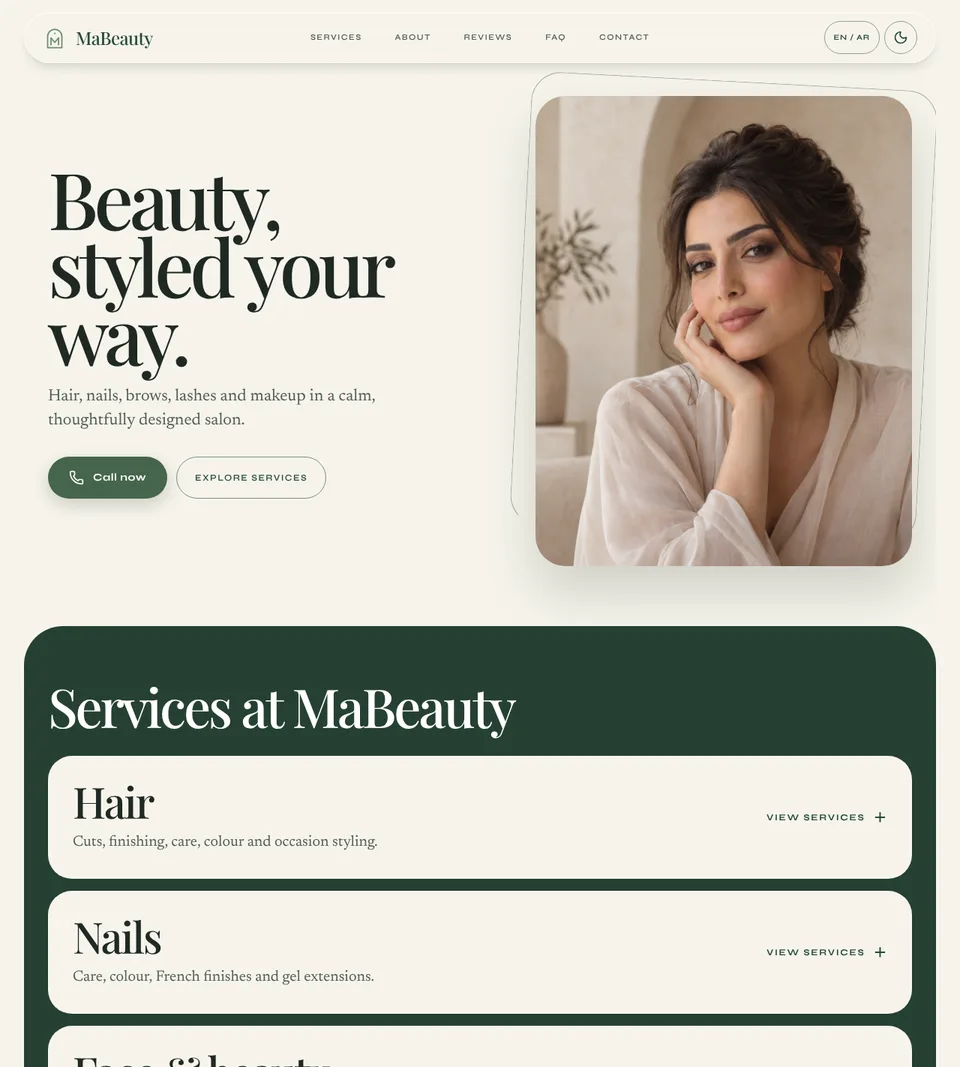
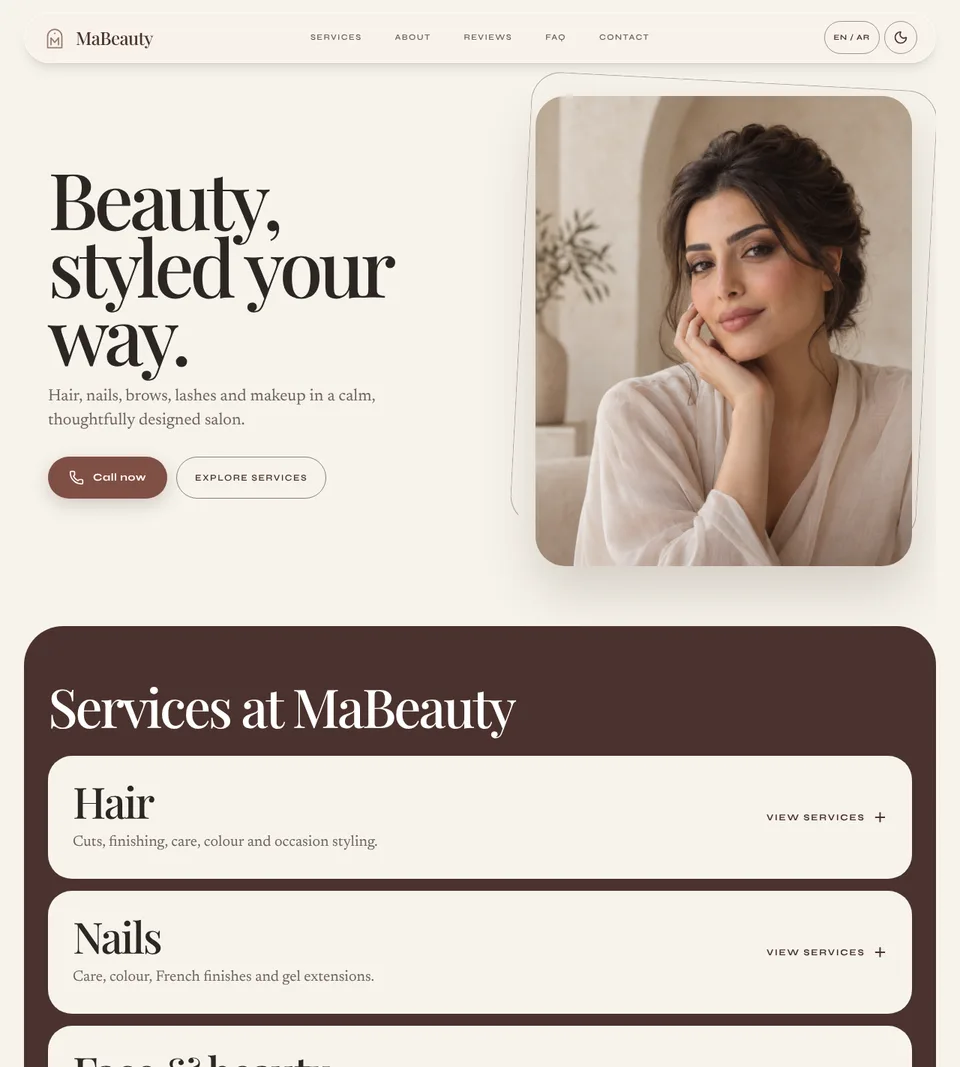
Use the original warm palette for MaBeauty Salon
Claude-Session: https://claude.ai/code/session_01BthQbLyQnBsQbd9tpHwAJk

Changed region(s): [[0.0, 0.5876, 1.0, 1.0], [0.0312, 0.4021, 0.1875, 0.4948]]

diff --git a/index.html b/index.html
@@ -562,7 +562,7 @@
                 <div><dt>Role</dt><dd>Front-End Developer / UI Designer.</dd></div>
                 <div><dt>Goal</dt><dd>Show how a local salon could present itself online with a polished website where visitors explore services, read reviews, check opening hours and get in touch.</dd></div>
                 <div><dt>Structure</dt><dd>Hair, nail, lash and beauty treatments are organized into responsive service accordions. English/Arabic language switching and light/dark themes, with subtle motion and layouts for desktop and mobile.</dd></div>
-                <div><dt>Brand</dt><dd>An original visual identity &mdash; monogram logo, warm cream and dusty-rose palette and editorial typography &mdash; applied consistently across both languages and both themes.</dd></div>
+                <div><dt>Brand</dt><dd>A consistent visual identity &mdash; monogram logo, warm cream and mocha palette and editorial typography &mdash; applied across both languages and both themes.</dd></div>
               </dl>
               <p class="project-note">Independent concept project for a fictional salon brand.</p>
               <p class="project-tech">
